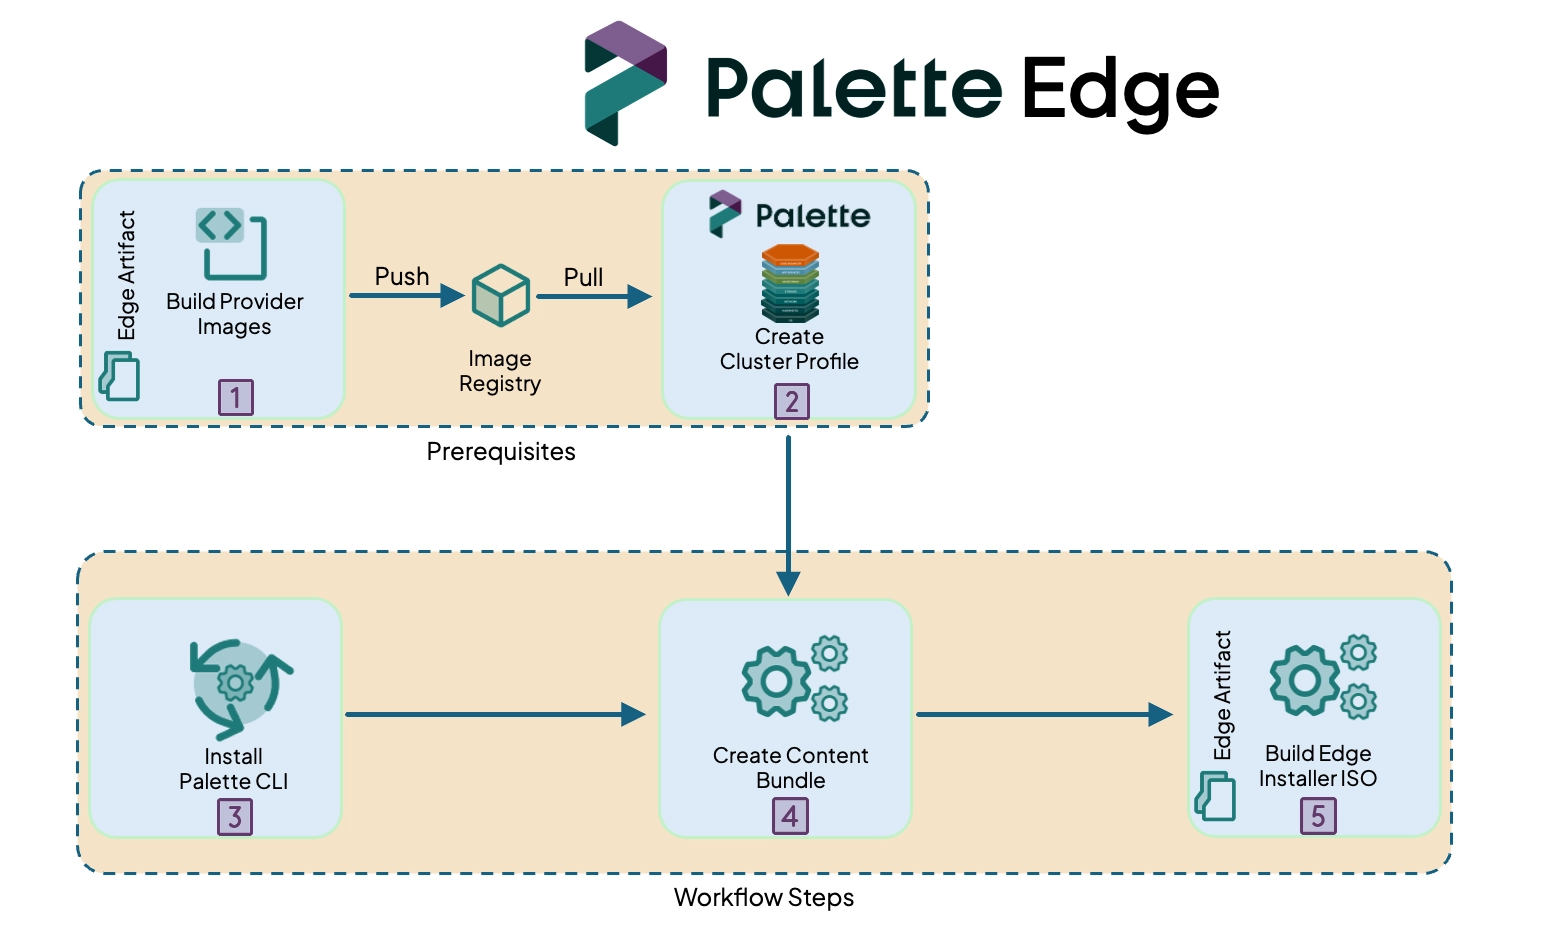
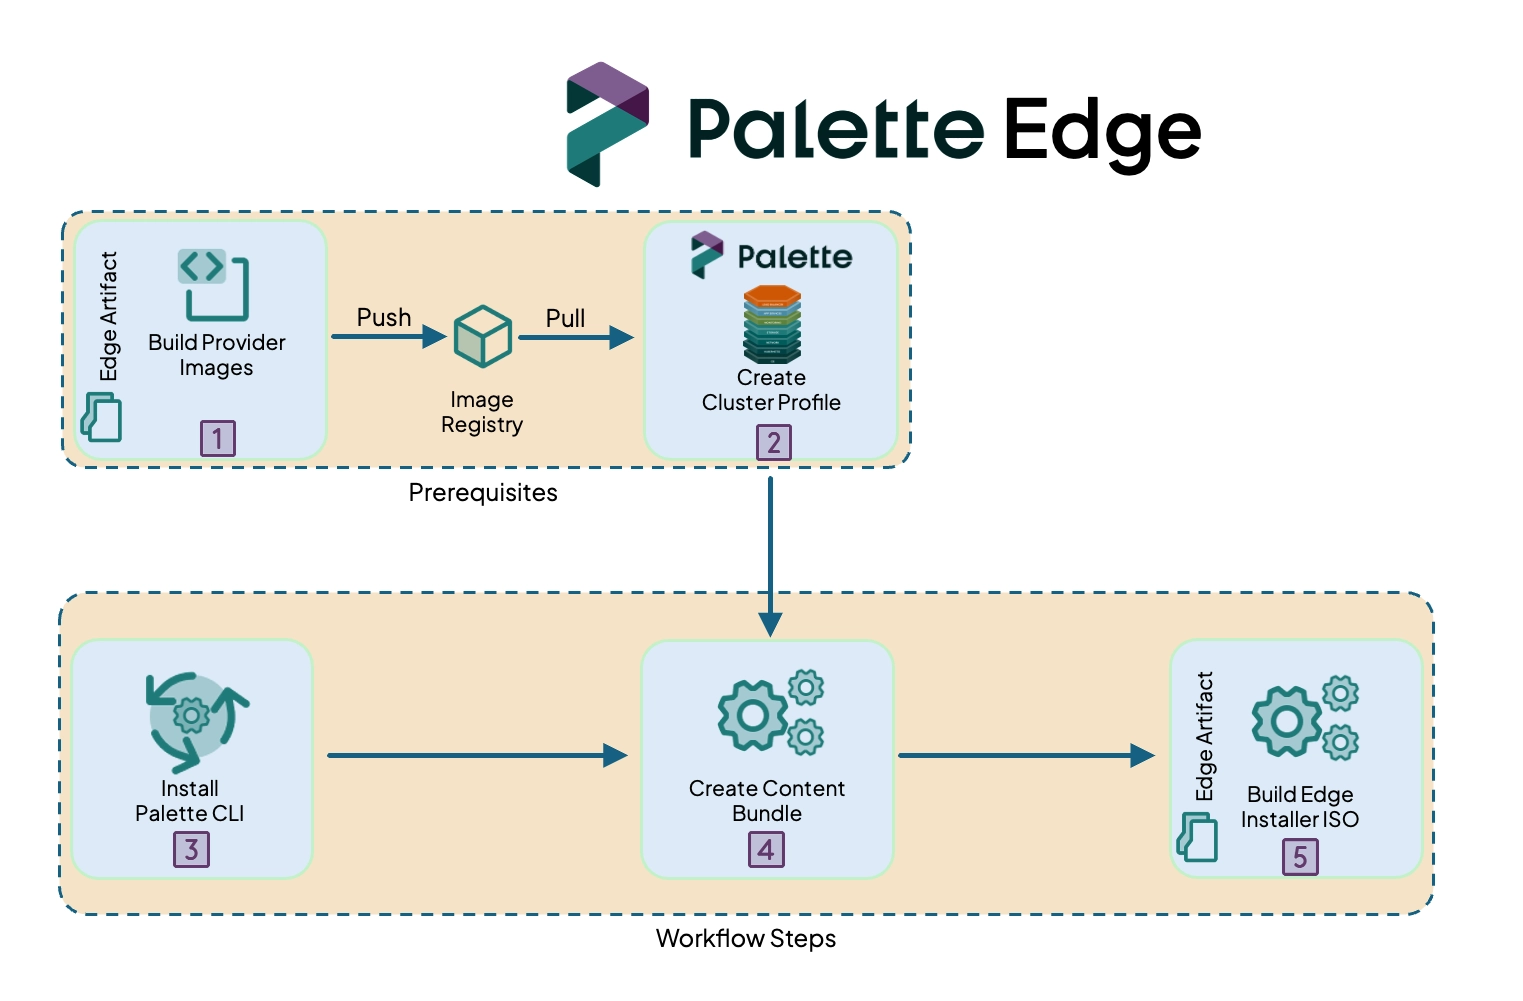
doc-2581: rough placement

Changed region(s): [[0.0309, 0.0311, 0.9567, 0.9946], [0.2777, 0.5906, 0.3086, 0.6217]]

diff --git a/docs/docs-content/clusters/edge/edgeforge-workflow/edgeforge-workflow.md b/docs/docs-content/clusters/edge/edgeforge-workflow/edgeforge-workflow.md
@@ -14,7 +14,7 @@ Each EdgeForge component plays a critical role in the [lifecycle](../edge-native
 Review the [Edge Artifacts](../edgeforge-workflow/edgeforge-workflow.md#edge-artifacts) section to learn more about each
 component.
 
-![A diagram that displays the relationship between the three components  and how they relate to an Edge host](/clusters_edge-forge-workflow_edgeforge-workflow_components-diagram.webp)
+![A diagram that displays the relationship between the three components  and how they relate to an Edge host](/clusters_edge-forge-workflow_edgeforge-workflow_components-diagram_4-8.webp)
 
 ## Get Started
 
@@ -145,6 +145,70 @@ through the <VersionedLink text="BYOOS" url="/integrations/packs/?pack=edge-nati
 instructions in the [Build Edge Artifacts](/clusters/edge/edgeforge-workflow/palette-canvos) guide to learn more about
 how you can customize the OS used in an Edge deployment.
 <!-- prettier-ignore-end -->
+
+## Network Considerations
+
+In addition to the [Deployment Scenarios](#deployment-scenarios), network considerations have to be included. This will impact how Day-2 activites have to be managed. 
+
+- **Centrally Managed Edge cluster**:
+Edge host must reach Palette (registration, cluster assignment, profile updates).
+
+When the cluster profile changes or packs are missing, agent downloads pack files into the local packs directory.
+
+Packs
+Source: Remote pack registries .
+
+Failure mode: If a required pack cannot be downloaded cluster processing fails and there is a periodic reconcile attempt to download the missing packs.
+
+Charts (Helm / Helm OCI)
+Treated as packs with types Helm and Helm OCI (and related types). 
+
+Raw manifests
+Downloaded as part of profile manifests, mainly inside pack downloads; not a single dedicated “manifest registry” separate from packs and Palette.
+
+Container images
+At runtime, pulls follow image references in pack values and registry-connect behavior (external registry, in-cluster Harbor/Zot, mapping rules).
+
+Failure mode: Unreachable registries or missing images block pod scheduling and cluster readiness; registry misconfiguration surfaces as pull/back-off errors.
+
+Local content bundle when centrally managed (not a pack/chart fallback)
+Packs/charts/manifests: If the edge host cannot reach the internet or remote pack registries, having local content bundle does not act as an automatic fallback for missing pack archives or Helm/Helm-OCI chart packs. Failed pack downloads are not retrieved from the bundle layout.
+
+Images: If 'AlwaysPullImages' is disabled and image is available in local content bundle, the image from bundle is synced to containerd and available for use. So a staged bundle will still help as a fallback for images.
+
+
+- **Locally Managed Edge with Internet or site network access**:
+Edge host can reach internet/registry.
+
+Packs
+Always from uploaded cluster-definition(spc.tgz).
+
+Failure mode: If a required pack is not available in the bundle, it will not be downloaded from internet/registry.
+
+Charts/Manifests 
+Same as packs(extracted from spc.tgz). Only charts from private registries are extracted from content-bundle(content.zst).
+
+Container images
+Images from bundle are synced to containerd and available for use. Any image missing in the bundle is automatically pulled from internet/registry.
+
+Pull path: If image references point to registries reachable from the site (internet or corporate), kubelet/containerd pulls normally; 
+
+Staged bundles: The content bundles can be uploaded to avoid wide-area pulls or to pin exact image sets.
+
+
+- **Locally Managed Edge without Internet or site network access**:
+  Edge host cannot reach internet/registry.
+Packs
+Always from uploaded cluster-definition(spc.tgz).
+
+Failure mode: If a required pack is not available in the bundle, it will not be downloaded from internet/registry.
+
+Charts/Manifests 
+Same as packs(extracted from spc.tgz). Only charts from private registries are extracted from content-bundle(content.zst).
+
+Container images
+Images from bundle are synced to containerd and available for use. Any image missing in the bundle cannot be pulled from internet/registry.
+
 
 ## Resources
 

diff --git a/docs/docs-content/clusters/edge/edgeforge-workflow/palette-canvos/build-content-bundle.md b/docs/docs-content/clusters/edge/edgeforge-workflow/palette-canvos/build-content-bundle.md
@@ -21,6 +21,8 @@ optimization.
 
 :::
 
+
+
 The diagram below displays the overarching steps to build the Edge installer ISO using a content bundle. The diagram
 also highlights the primary prerequisites to create a content bundle.
 
@@ -53,6 +55,11 @@ Refer to
 to learn how to migrate from the legacy pack to the **Registry Connect** pack.
 
 :::
+
+- Depending on the deployment method used, there are some failure considerations to keep in mind:
+  - For centrally managed Edge cluster if a required pack cannot be downloaded, the cluster processing fails. There is a periodic reconcile attempt to download the missing packs.
+  - For locally managed Edge cluster with internet or local network resources, if a required pack is not available in the content bundle, it will not be downloaded from the internet or local network accessible registry. 
+  - For locally managed Edge cluster with no internet or local network resources, if a required pack is not available in the content bundle, it will not be downloaded from the internet or local network accessible registry. 
 
 <!-- prettier-ignore-start -->
 - You can configure built-in registry packs or your own custom OCI registry. Both configurations require the **Registry
